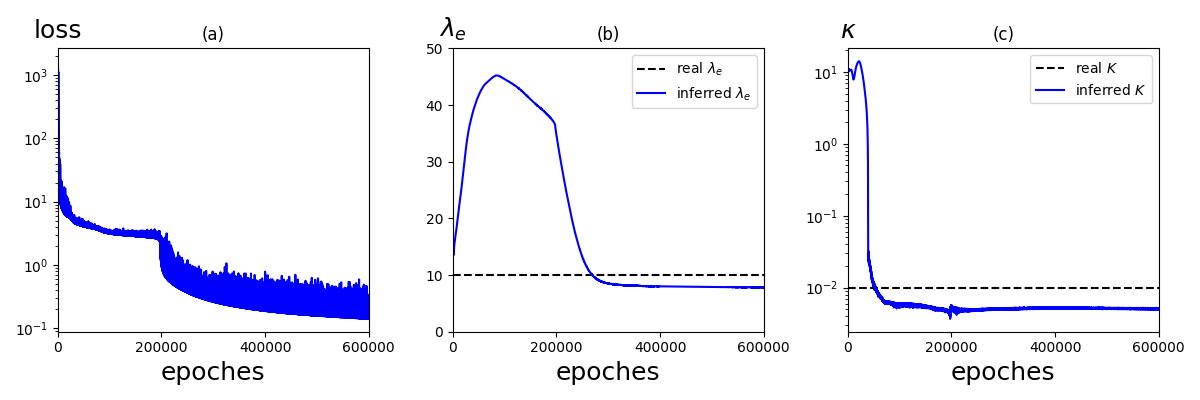
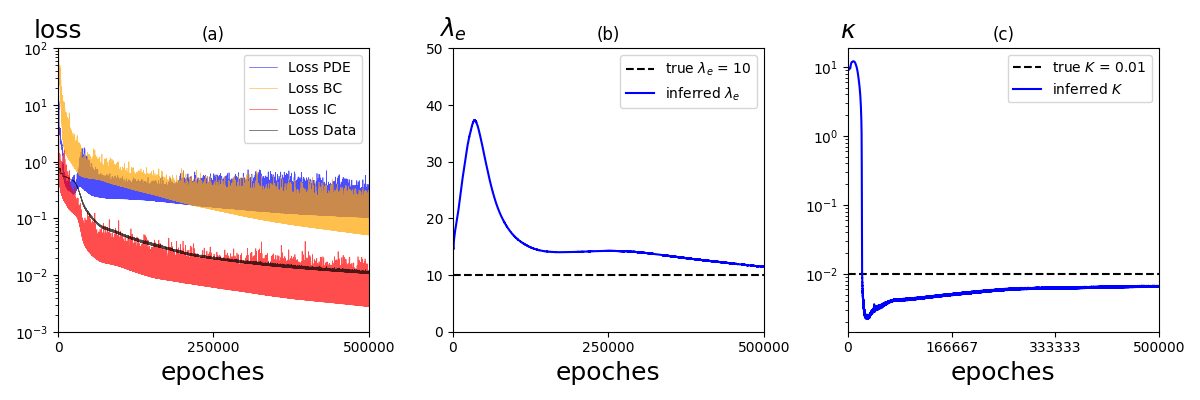
.

diff --git a/Thrombus/Plot/lmd_comp/lmd_comp_K.py b/Thrombus/Plot/lmd_comp/lmd_comp_K.py
@@ -1,0 +1,296 @@
+"""
+Author: Minglang Yin
+"""
+import torch
+import torch.nn as nn
+import numpy as np
+import matplotlib.pyplot as plt
+import matplotlib.gridspec as gridspec
+
+from mpl_toolkits.axes_grid1.inset_locator import inset_axes
+
+import sys
+sys.path.insert(0,'../')
+from Utils import *
+
+h = 0.04
+lmd = 0.4*0.00010607
+#lmd_e = 0.5
+tau = 1e-6
+rho = 1
+mu = 0.1
+K = 0.01
+
+class Model(nn.Module):
+    def __init__(self):
+        super(Model, self).__init__()
+        self.net_w = nn.Sequential()
+        self.net_w.add_module('net_w_linear_1', nn.Linear(3, 20))
+        self.net_w.add_module('net_w_tanh_1', nn.Tanh())
+        for num in range(2,10):
+            self.net_w.add_module('net_w_linear_%d' %(num), nn.Linear(20, 20))
+            self.net_w.add_module('net_w_tanh_%d' %(num), nn.Tanh())
+        self.net_w.add_module('net_w_linear_50', nn.Linear(20, 3))
+
+        self.net_u = nn.Sequential()
+        self.net_u.add_module('net_u_linear_1', nn.Linear(3, 20))
+        self.net_u.add_module('net_u_tanh_1', nn.Tanh())
+        for num in range(2,10):
+            self.net_u.add_module('net_u_linear_%d' %(num), nn.Linear(20, 20))
+            self.net_u.add_module('net_u_tanh_%d' %(num), nn.Tanh())
+        self.net_u.add_module('net_u_linear_50', nn.Linear(20, 4))
+
+        self.lmd_e = torch.nn.Parameter(torch.tensor([15], requires_grad=True, dtype=torch.float32) )
+        self.K = torch.nn.Parameter(torch.tensor([15], requires_grad=True, dtype=torch.float32) )
+
+    def forward(self, x):
+        w = self.net_w(x)
+        u = self.net_u(x)
+        output = torch.cat((u, w), dim=1)
+        return output
+
+def to_numpy(input):
+    if isinstance(input, torch.Tensor):
+        return input.detach().cpu().numpy()
+    elif isinstance(input, np.ndarray):
+        return input
+    else:
+        raise TypeError('Unknown type of input, expected torch.Tensor or '\
+            'np.ndarray, but got {}'.format(type(input)))
+
+def main(): 
+    ## parameters
+    device = torch.device(f"cuda:{0}" if torch.cuda.is_available() else "cpu")
+    print(device, flush=True)
+    lr = 0.001
+    model_path = '../../Inv_L/test_34/CheckPts/model_chkpts.pt'
+
+    file_start = 0
+    file_end = 20
+    dt = 0.06
+    t_gap = 6
+
+    num_x1 = 100
+    num_x2 = 100
+    num_t = file_end-file_start
+
+    x_min, x_max = 0, 6
+    y_min, y_max = 0, 2
+    asp_ratio = (y_max-y_min)/(x_max-x_min)
+
+    ## geometry
+    x1 = np.linspace(x_min, x_max, num=num_x1)
+    x2 = np.linspace(y_min, y_max, num=num_x2)
+    t = np.linspace(0.02+dt*file_start, 0.02+dt*(file_end-1), num=num_t)
+
+    x1_grid, x2_grid = np.meshgrid(x1, x2)
+    x_2d = np.concatenate((x1_grid.flatten()[:,None], x2_grid.flatten()[:,None]), axis=1)
+
+    ## load data file
+    y_data = np.zeros((6, file_end-file_start, num_x1, num_x2))
+    t_step = 0
+    for file_id in range(file_start, file_end):
+        name_u = '../../../Data/CH/phase_field_xiaoning/Lmd_e_10_K_001/dat/half' + str(file_id) + '.dat'
+        name_phi = '../../../Data/CH/phase_field_xiaoning/Lmd_e_10_K_001/dat_phase/halfp' + str(file_id) + '.dat'
+        data_u = np.loadtxt(name_u)
+        data_phi = np.loadtxt(name_phi)
+
+        ## x_tmp: [t,x,y]   u_tmp:[u,v,p,phi]
+        y_tmp = np.concatenate(( data_u[:,3:5], data_u[:,6:7], data_phi[:,3:4], data_u[:, 7:9]), axis=1)
+        for j in range (0, 6):
+            y_data[j, t_step, :, :] = y_tmp[:,j].reshape(100, 100)
+        t_step = t_step + 1
+
+    ## instantiate model/optimizer
+    model = Model().to(device)
+    model.double()
+    optimizer = torch.optim.Adam(model.parameters(), lr = 0.001)
+
+    ## loading model/optimizer state
+    checkpoint = torch.load(model_path)
+    model.load_state_dict(checkpoint['model_state_dict'])
+    optimizer.load_state_dict(checkpoint['optimizer_state_dict'])
+
+    ## testing
+    Predictions = np.zeros((7, num_t, num_x1, num_x2))
+    for i in range(0, num_t):
+        xt = np.concatenate((t[i]*np.ones((num_x1*num_x2, 1)), x_2d), axis=1)
+        xt_tensor = torch.tensor(xt, requires_grad=True, dtype=torch.double).to(device)
+        y_pred = model(xt_tensor)
+        for j in range(0, 7):
+            Predictions[j, i, :, :] = to_numpy(y_pred[:, j]).reshape(num_x1, num_x2)
+    
+    ## v and phi
+    phi_inf = np.zeros((num_t, num_x1, num_x2))
+    phi_ref = np.zeros((num_t, num_x1, num_x2))
+    vel_inf = np.zeros((num_t, num_x1, num_x2))
+    vel_ref = np.zeros((num_t, num_x1, num_x2))
+    p_inf = np.zeros((num_t, num_x1, num_x2))
+    p_ref = np.zeros((num_t, num_x1, num_x2))
+    psi1_inf = np.zeros((num_t, num_x1, num_x2))
+    psi1_ref = np.zeros((num_t, num_x1, num_x2))   
+    psi2_inf = np.zeros((num_t, num_x1, num_x2))
+    psi2_ref = np.zeros((num_t, num_x1, num_x2))   
+    for i in range(0, num_t):
+        phi_inf[i, :, :] = Predictions[3, i, :, :]
+        phi_ref[i, :, :] = y_data[3, i, :, :]
+        vel_inf[i, :, :] = np.sqrt(Predictions[0, i, :, :]**2 + Predictions[1, i, :, :]**2)
+        vel_ref[i, :, :] = np.sqrt(y_data[0, i, :, :]**2 + y_data[1, i, :, :]**2)
+
+        p_inf[i, :, :] = Predictions[2, i, :, :]
+        p_ref[i, :, :] = y_data[2, i, :, :]
+
+        psi1_inf[i, :, :] = Predictions[5, i, :, :]
+        psi1_ref[i, :, :] = y_data[4, i, :, :]
+
+        psi2_inf[i, :, :] = Predictions[6, i, :, :]
+        psi2_ref[i, :, :] = y_data[5, i, :, :]
+
+    l2_error = get_relative_l2_error(vel_inf, vel_ref)
+    print(f'mean relative l2 error (vel) full time: {l2_error.mean()}')
+    print(f'relative l2 error (vel) full time: {l2_error}')
+
+    l2_error = get_relative_l2_error(phi_inf, phi_ref)
+    print(f'mean relative l2 error (phi) full time: {l2_error.mean()}')
+
+    l2_error = get_relative_l2_error(p_inf, p_ref)
+    print(f'mean relative l2 error (p) full time: {l2_error.mean()}')
+
+    l2_error = get_relative_l2_error(psi1_inf, psi1_ref)
+    print(f'mean relative l2 error (psi1) full time: {l2_error.mean()}')
+
+    l2_error = get_relative_l2_error(psi2_inf, psi2_ref)
+    print(f'mean relative l2 error (psi2) full time: {l2_error.mean()}')
+
+
+    ## plotting phi
+    # fig, ax = plt.subplots(3, 3, constrained_layout=True, figsize=[9, 4.5])
+    # gs0 = gridspec.GridSpec(3, 4)
+    # gs0.update(top=1-0.06, bottom=1-1/3, left=0.15, right=0.85, wspace=0)
+    phi_range = np.linspace(-1, 1, 3)[:,None]
+    phi_error = np.linspace(0, 0.1, 3)[:,None]
+
+    fig = plt.figure(constrained_layout=False, figsize=(9, 4.5))
+    gs = fig.add_gridspec(3, 1)
+
+    for i in range (0, 3):
+        _gs = gs[i].subgridspec(1, 3)
+
+        _ax = fig.add_subplot(_gs[0])
+        _ax.axis('off') 
+        _h = _ax.imshow(phi_ref[t_gap*i, :, :], interpolation='nearest', cmap='coolwarm', origin='lower', aspect=asp_ratio)
+        _h.set_clim(vmin=-1, vmax=1)
+        axins = inset_axes(_ax,
+                    width="100%",
+                    height="10%",
+                    loc='lower center',
+                    borderpad=-1,
+                    )
+        fig.colorbar(_h, ax=_ax, ticks=phi_range, cax = axins, orientation='horizontal')
+        # if i == 0:
+            # _ax.set_title('$\phi_{ref}$')
+
+
+        _ax = fig.add_subplot(_gs[1])
+        _ax.axis('off') 
+        _h = _ax.imshow(phi_inf[t_gap*i, :, :], interpolation='nearest', cmap='coolwarm', origin='lower', aspect=asp_ratio)
+        _h.set_clim(vmin=-1, vmax=1)
+        axins = inset_axes(_ax,
+                    width="100%",
+                    height="10%",
+                    loc='lower center',
+                    borderpad=-1,
+                    )
+        
+        fig.colorbar(_h, ax=_ax, ticks=phi_range, cax = axins, orientation='horizontal')
+        # if i == 0:
+            # _ax.set_title('$\phi_{inf}$')
+
+
+        _ax = fig.add_subplot(_gs[2])
+        _ax.axis('off') 
+        _h = _ax.imshow(np.abs(phi_ref[t_gap*i, :, :] - phi_inf[t_gap*i, :, :]), interpolation='nearest', cmap='coolwarm', origin='lower', aspect=asp_ratio)
+        _h.set_clim(vmin=0, vmax=0.1)
+        axins = inset_axes(_ax,
+                    width="100%",
+                    height="10%",
+                    loc='lower center',
+                    borderpad=-1,
+                    )
+        fig.colorbar(_h, ax=_ax, ticks=phi_error, cax = axins, orientation='horizontal')
+        # if i == 0:
+            # _ax.set_title('$\epsilon_{\phi}$')
+
+    # plt.gcf().text(0.05, 0.9, "(a)", fontsize=14 )
+
+    plt.savefig('lmd_k_phase.png')
+    plt.close()
+
+    ## plotting velocity
+    vel_range = np.linspace(0, 1.0, 3)[:,None]
+    vel_error = np.linspace(0, 0.2, 3)[:,None]
+    fig = plt.figure(constrained_layout=False, figsize=(9, 4.5))
+    gs = fig.add_gridspec(3, 1)
+
+    for i in range (0, 3):
+        _gs = gs[i].subgridspec(1, 3)
+
+        _ax = fig.add_subplot(_gs[0])
+        _ax.axis('off') 
+        _h = _ax.imshow(vel_ref[t_gap*i, :, :], interpolation='nearest', cmap='coolwarm', origin='lower', aspect=asp_ratio)
+        _h.set_clim(vmin=0, vmax=1.0)
+        axins = inset_axes(_ax,
+                    width="100%",
+                    height="10%",
+                    loc='lower center',
+                    borderpad=-1,
+                    )
+        fig.colorbar(_h, ax=_ax, ticks=vel_range, cax = axins, orientation='horizontal')
+
+        _ax = fig.add_subplot(_gs[1])
+        _ax.axis('off') 
+        _h = _ax.imshow(vel_inf[t_gap*i, :, :], interpolation='nearest', cmap='coolwarm', origin='lower', aspect=asp_ratio)
+        _h.set_clim(vmin=0, vmax=1.0)
+        axins = inset_axes(_ax,
+                    width="100%",
+                    height="10%",
+                    loc='lower center',
+                    borderpad=-1,
+                    )
+        fig.colorbar(_h, ax=_ax, ticks=vel_range, cax = axins, orientation='horizontal')
+
+        _ax = fig.add_subplot(_gs[2])
+        _ax.axis('off') 
+        _h = _ax.imshow(np.abs(vel_ref[t_gap*i, :, :] - vel_inf[t_gap*i, :, :]), interpolation='nearest', cmap='coolwarm', origin='lower', aspect=asp_ratio)
+        _h.set_clim(vmin=0, vmax=0.2)
+        axins = inset_axes(_ax,
+                    width="100%",
+                    height="10%",
+                    loc='lower center',
+                    borderpad=-1,
+                    )
+        fig.colorbar(_h, ax=_ax, ticks=vel_error, cax = axins, orientation='horizontal')
+
+    plt.savefig('lmd_k_velo.png')
+    plt.close()
+
+if __name__ == '__main__':
+    main()
+
+
+
+
+
+
+
+
+
+
+
+
+
+
+
+
+
+

diff --git a/Thrombus/Plot/lmd_his/his_new.py b/Thrombus/Plot/lmd_his/his_new.py
@@ -1,0 +1,85 @@
+"""
+Author: Minglang Yin
+"""
+import numpy as np
+import matplotlib.pyplot as plt
+import matplotlib.gridspec as gridspec
+
+def main():
+    ## load data
+    loss = np.loadtxt('../../Inv_L/test_31/loss.his')
+    lmd = np.loadtxt('../../Inv_L/test_31/lmd_e.his')
+    K = np.loadtxt('../../Inv_L/test_31/K.his')
+
+    ## figure
+    fig = plt.figure(constrained_layout=False, figsize=(12, 4))
+    gs = fig.add_gridspec(1, 3)
+    ## loss
+    ax1 = fig.add_subplot(gs[0])
+    ax1.plot(loss[:, 0], color='blue', linewidth=0.5, label='Loss PDE', alpha=0.7)
+    ax1.plot(loss[:, 1], color='orange', linewidth=0.5, label='Loss BC', alpha=0.7)
+    ax1.plot(loss[:, 2], color='red', linewidth=0.5, label='Loss IC', alpha=0.7)
+    ax1.plot(loss[:, 3], color='black', linewidth=0.5, label='Loss Data', alpha=0.7)
+
+    ax1.set_yscale('log')
+    ax1.set_xlabel('epoches', fontsize=18)
+    ax1.set_ylabel('loss', fontsize=18, rotation="horizontal")
+    ax1.set_xlim([0, 500000])
+    ax1.set_ylim([1e-3, 1e2])
+    ax1.set_xticks(np.linspace(0, 500000, 3))
+    ax1.set_title('(a)')
+    ax1.yaxis.set_label_coords(0.0,1.02)
+    # ax1.set_aspect('equal')
+    ax1.legend()
+
+    ## lmd
+    ax2 = fig.add_subplot(gs[1])
+    ax2.axhline(y=10, linestyle='--', color='black',  label='true $\lambda_{e}$ = 10')
+    ax2.plot(lmd, label='inferred $\lambda_{e}$', color='blue')
+    ax2.set_xlabel('epoches', fontsize=18)
+    ax2.set_ylabel('$\lambda_{e}$', fontsize=18, rotation="horizontal")
+    ax2.set_xlim([0, 500000])
+    ax2.set_ylim([0, 50])
+    ax2.set_xticks(np.linspace(0, 500000, 3))
+    ax2.set_title('(b)')
+    ax2.legend()
+    ax2.yaxis.set_label_coords(0.0,1.02)
+    # ax2.set_aspect('equal')
+
+    ## K
+    ax3 = fig.add_subplot(gs[2])
+    ax3.set_yscale('log')
+    ax3.axhline(y=0.01, linestyle='--', color='black',  label='true $K$ = 0.01')
+    ax3.plot(K, color='blue', label='inferred $K$')
+    ax3.set_xlabel('epoches', fontsize=18)
+    ax3.set_ylabel('$\kappa$', fontsize=18, rotation="horizontal")
+    ax3.set_xlim([0, 500000])
+    ax3.set_xticks(np.linspace(0, 500000, 4))
+    ax3.set_title('(c)')
+    ax3.legend()
+    ax3.yaxis.set_label_coords(0.0,1.02)
+
+    plt.tight_layout()
+    plt.savefig('fig_11.png')
+    plt.close()
+
+if __name__ == '__main__':
+    main()
+
+
+
+
+
+
+
+
+
+
+
+
+
+
+
+
+
+

diff --git a/Thrombus/Inv_L/test_31/test.m b/Thrombus/Inv_L/test_31/test.m
@@ -9,9 +9,16 @@ plot(lmd)
 hold on
 yline(10)
 
+K = load('K.his');
+figure()
+plot(K)
+hold on
+yline(0.01);
+
 loss = load('loss.his');
 figure()
 semilogy(loss)
 
 % min(loss)
 lmd(end)
+K(end)
